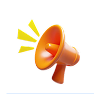
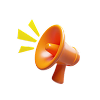
Pictures sizes on mobile

Changed region(s): [[0.06, 0.93, 0.96, 0.96]]

diff --git a/src/content/projects/BP-redesign/index.md b/src/content/projects/BP-redesign/index.md
@@ -20,7 +20,7 @@ As for the font itself, the original logo seemed to use a variation of Prompt. I
 
 Blue is somewhat overused in companies brandings today, but that's their original colour so I'll stick with it.
 
-<div class="mx-40 mt-8">
+<div class="max-w-60 mx-auto my-8">
     <img src="/projectfiles/bp-redesign/logo2.png" alt="Small version of the new logo"/>
 </div>
 
@@ -41,7 +41,7 @@ Once you'e authenticated, you lend on the account page. Here you can see your ac
 
 <p class="text-center">The illustration here is from Krestovskaya Anna, on <a href="https://dribbble.com/shots/6683266-How-to-build-a-remote-company">Dribbble</a>.</p>
 
-<div class="mx-40 mt-8">
+<div class="max-w-80 mx-auto my-8">
     <img src="/projectfiles/bp-redesign/link-illu.png" alt="Focus and link of the illustration"/>
 </div>
 
@@ -66,7 +66,7 @@ In this tab, you handle your card security concerns, see your PIN or unlock it a
 
 You can have both physical and virtual cards, and create or order more as needed.
 
-<div class="mx-32 my-8">
+<div class="max-w-96 mx-auto my-8">
     <img src="/projectfiles/bp-redesign/zoom-card.png" alt="Zoom on the physical and virtual cards"/>
 </div>
 

diff --git a/src/content/projects/Bankin-year-1/index.md b/src/content/projects/Bankin-year-1/index.md
@@ -174,7 +174,7 @@ It can be automatic, or through a voucher, or finally through a referral link. A
 
 The base for the designs shown below was made by Romain, the previous designer, but I added and changed a lot of things during my work for our projects.
 
-<div class="flex gap-4 mx-52 md:my-8">
+<div class="flex gap-4 max-w-44 mx-auto my-8">
     <div class=""><img src="/projectfiles/bankin/cashback-auto1.png" alt=""/></div>
     <div class=""><img src="/projectfiles/bankin/cashback-auto2.png" alt=""/></div>
 </div>
@@ -189,7 +189,7 @@ When we added the automatic cashback, I had to come up with a solution, in order
 
 Similarly, for the vouchers that have yet to be implemented, I designed another icon and color code to make it stand out.
 
-<div class="flex gap-4 mx-52 md:my-8">
+<div class="flex gap-4 max-w-44 mx-auto my-8">
     <div class=""><img src="/projectfiles/bankin/voucher1.png" alt=""/></div>
     <div class=""><img src="/projectfiles/bankin/voucher2.png" alt=""/></div>
 </div>
